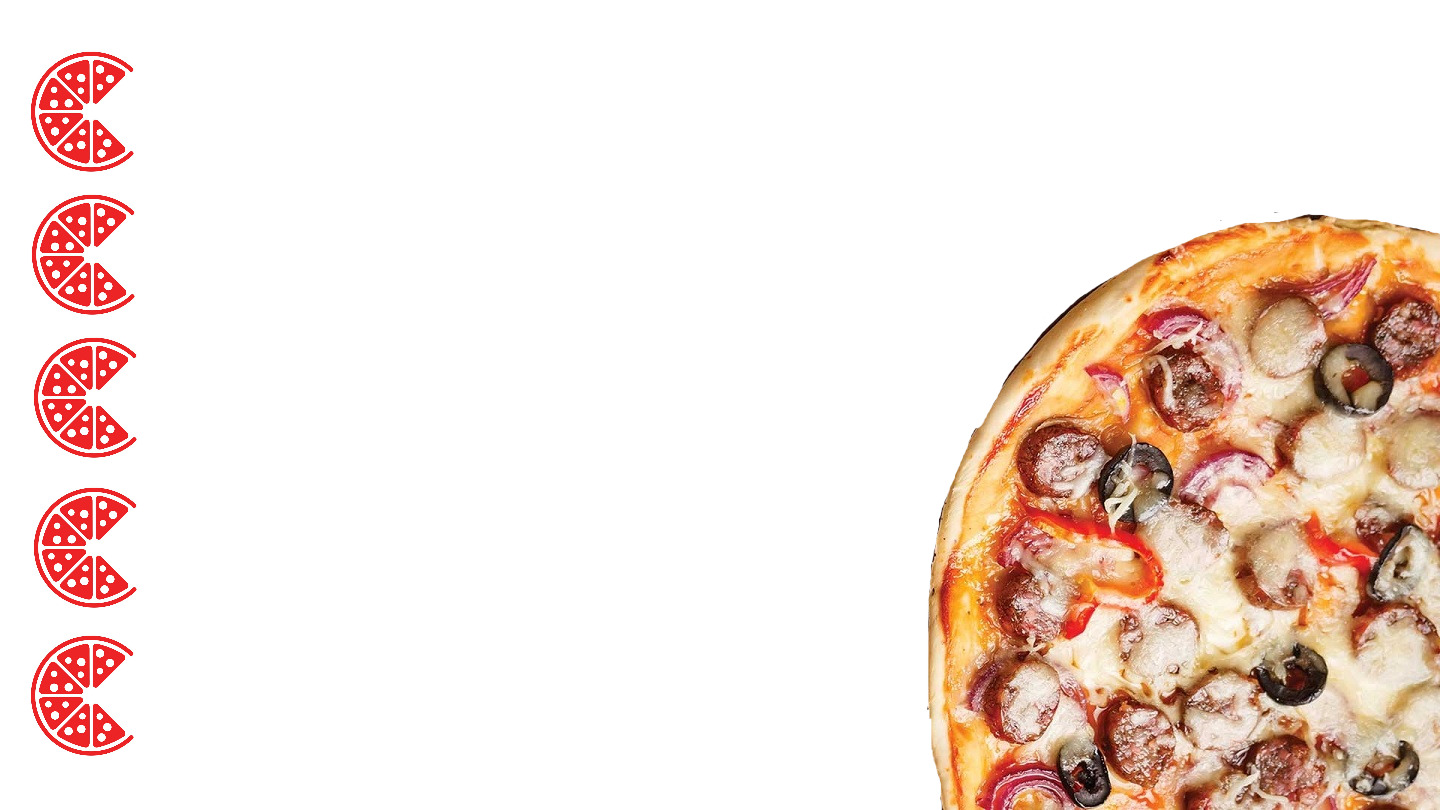
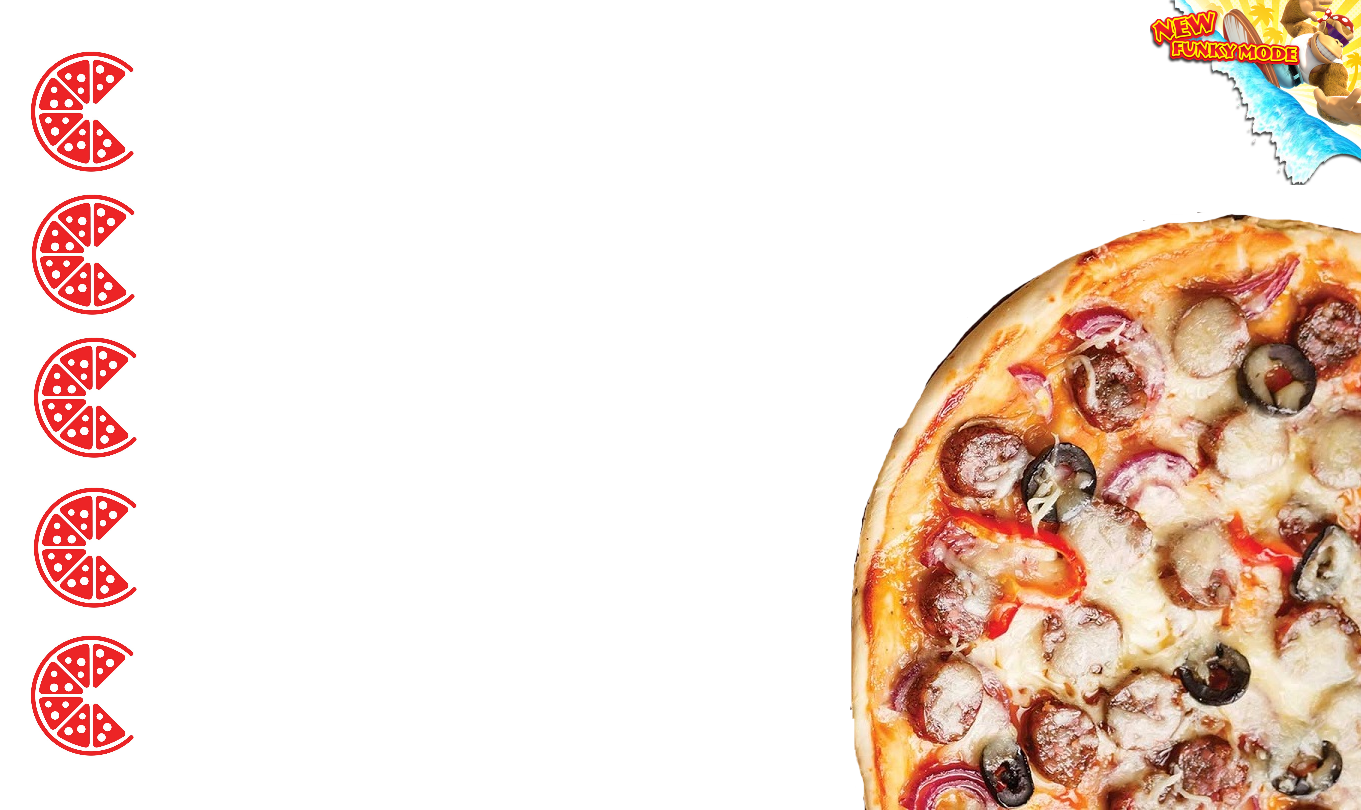
added new funky mode

diff --git a/style.css b/style.css
@@ -8,11 +8,13 @@ body {
 p {
   color: red;
   font-size: 16px;
+  margin-right: 200px;
 }
 
 h1 {
-  color: #ff9999;
+  color: red;
   font-size: 36px;
+  margin-right: 200px;
 }
 h2 {
 
